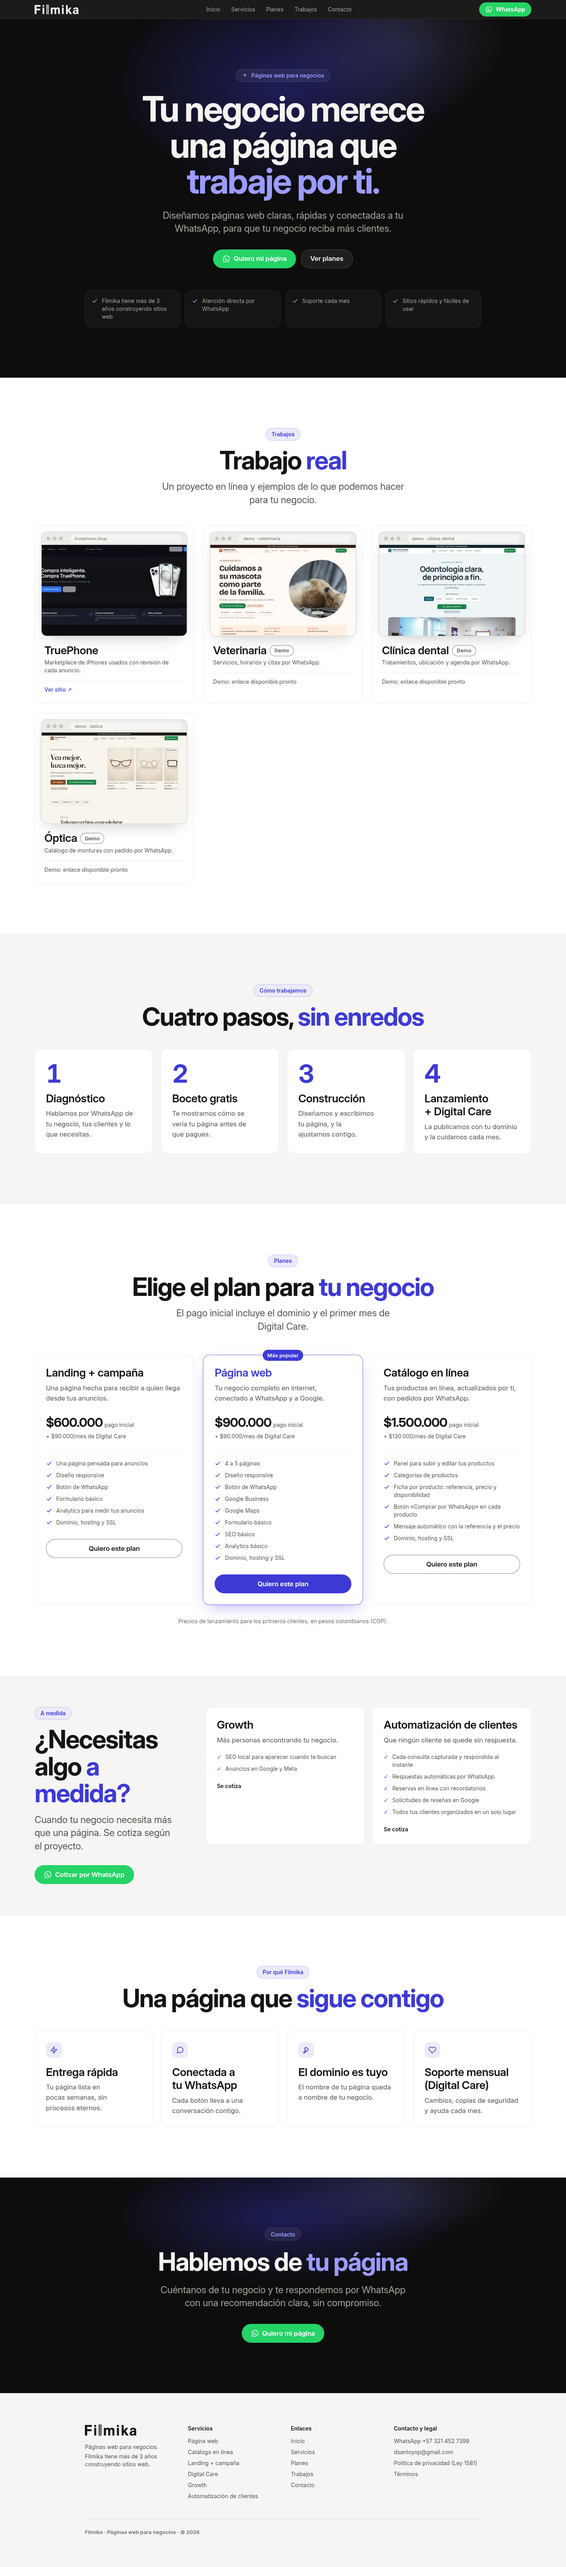
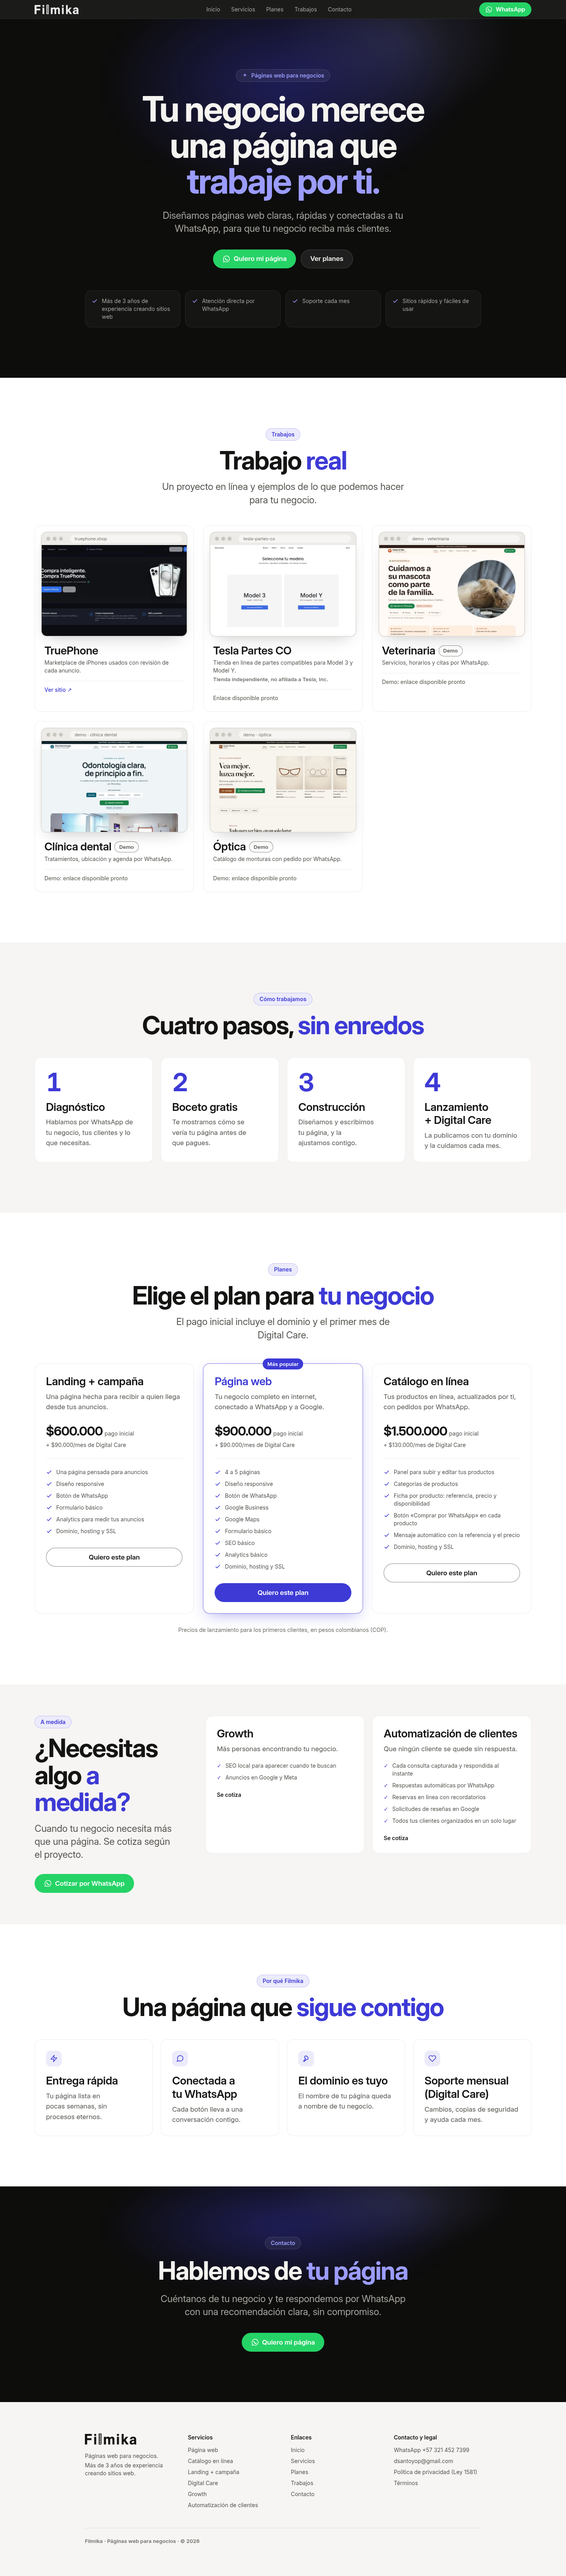
Trabajos: add Tesla Partes CO (local-build screenshot, no link, non-affiliation line); experience line → 'Más de 3 años de experiencia creando sitios web'

diff --git a/src/config.ts b/src/config.ts
@@ -13,12 +13,12 @@ export const SITE = {
   locale: "es_CO",
   lang: "es-CO",
   defaultDescription:
-    "Diseñamos páginas web claras, rápidas y conectadas a tu WhatsApp, para que tu negocio reciba más clientes. Filmika tiene más de 3 años construyendo sitios web.",
+    "Diseñamos páginas web claras, rápidas y conectadas a tu WhatsApp, para que tu negocio reciba más clientes. Más de 3 años de experiencia creando sitios web.",
   /**
    * The only number allowed in the copy (docs/BRAND.md), credited to the brand.
    * No personal names anywhere on the site (owner's decision, 2026-10-08).
    */
-  experience: "Filmika tiene más de 3 años construyendo sitios web, como TruePhone y Tesla Partes.",
+  experience: "Más de 3 años de experiencia creando sitios web, como TruePhone y Tesla Partes.",
 } as const;
 
 export const CONTACT = {

diff --git a/docs/SITE-SPEC.md b/docs/SITE-SPEC.md
@@ -29,7 +29,7 @@ A floating WhatsApp button appears on every page.
 ### Inicio (home v2, 2026-10-14)
 Structure taken from softingmarketingia.com (structure only, none of its copy). Design and motion: figma bro's `filmika-home-v2-spec-2026-10-14.md` + `filmika-home-v2-tokens-2026-10-14.css` (loaded after the Oct 8 base tokens, appended to `src/styles/global.css`). Light page with two dark bands (hero, final CTA).
 1. **Sticky header:** film-strip logo (white on the dark hero, black on light), menu Inicio · Servicios · Planes · Trabajos · Contacto (anchors on the home), always-visible WhatsApp button. Floating WhatsApp bubble with the tooltip "¡Escríbenos!" (≥640px), ring pulse every 6s, off under reduced motion, hidden while an inline WhatsApp CTA is visible.
-2. **Hero (dark band, static indigo glow):** pill badge "Páginas web para negocios" → H1 "Tu negocio merece una página que **trabaje por ti.**" (last words in the accent) → sub "Diseñamos páginas web claras, rápidas y conectadas a tu WhatsApp, para que tu negocio reciba más clientes." → buttons "Quiero mi página" (WhatsApp) and "Ver planes" (#planes). Then a non-numeric trust row: "Filmika tiene más de 3 años construyendo sitios web" (approved 2026-10-08), "Atención directa por WhatsApp", "Soporte cada mes", "Sitios rápidos y fáciles de usar".
+2. **Hero (dark band, static indigo glow):** pill badge "Páginas web para negocios" → H1 "Tu negocio merece una página que **trabaje por ti.**" (last words in the accent) → sub "Diseñamos páginas web claras, rápidas y conectadas a tu WhatsApp, para que tu negocio reciba más clientes." → buttons "Quiero mi página" (WhatsApp) and "Ver planes" (#planes). Then a non-numeric trust row: "Más de 3 años de experiencia creando sitios web" (approved 2026-10-08), "Atención directa por WhatsApp", "Soporte cada mes", "Sitios rápidos y fáciles de usar".
 3. **Trabajos (#trabajos):** 3-column grid of browser-frame cards with "Ver sitio": TruePhone (https://www.truephone.shop/). Tesla Partes is omitted until its live URL is confirmed. Three demos tagged "Demo" (veterinaria, clínica dental, óptica) use screenshots from the template previews; they are not online, so they show no link until `DEMO_URLS` in `src/config.ts` is filled. Demos are never deployed without the owner's OK.
 4. **Cómo trabajamos (#proceso):** Diagnóstico → Boceto gratis → Construcción → Lanzamiento + Digital Care.
 5. **Planes (#planes):** Landing + campaña $600.000 + $90.000/mes · **Página web** $900.000 + $90.000/mes ("Más popular", featured) · Catálogo en línea $1.500.000 + $130.000/mes. Note: "El pago inicial incluye el dominio y el primer mes de Digital Care." Each button opens wa.me/573214527399 with "Hola, me interesa el plan <nombre>".
@@ -124,14 +124,14 @@ Full copy direction lives in [BRAND.md](BRAND.md#copy-direction-mr-market-2026-1
 **Close**
 > Hablemos. Cuéntanos de tu negocio y te respondemos por WhatsApp con una recomendación clara, sin compromiso.
 
-Rules: "tú", short sentences, no jargon, the only claim is "Filmika tiene más de 3 años construyendo sitios web", and no personal names (see BRAND.md). Motion and imagery references: [REFERENCES.md](REFERENCES.md).
+Rules: "tú", short sentences, no jargon, the only claim is "Más de 3 años de experiencia creando sitios web", and no personal names (see BRAND.md). Motion and imagery references: [REFERENCES.md](REFERENCES.md).
 
 ## 5. Trust elements
 - **Portfolio:** only real, live projects with working links.
 - **Process:** clear 4-step process so the client knows what happens next.
 - **Packages and plans:** clear options and ongoing care after launch.
 - **Real contact:** real WhatsApp number, email, and city; no generic forms only.
-- **Experience:** "Filmika tiene más de 3 años construyendo sitios web" shown in Inicio and Nosotros.
+- **Experience:** "Más de 3 años de experiencia creando sitios web" shown in Inicio and Nosotros.
 - No fake testimonials, logos, or metrics.
 
 ## 6. Primary CTA: WhatsApp

diff --git a/docs/BRAND.md b/docs/BRAND.md
@@ -19,14 +19,14 @@ Filmika builds websites that help **any business** get more customers: clear, fa
 Niches are for **outreach only** (prospect mockups, Mr market's lists). Current outreach niches (Mr market, approved 2026-10-09): clínicas dentales, inmobiliarias, veterinarias, servicios para el hogar, estética, talleres especializados, ópticas y oficinas contables/jurídicas. **Constructoras are paused.** The site itself speaks to any business; Capacidades demos stay as fictional examples, framed as "ejemplos para distintos tipos de negocio", using a varied mix (clínica dental, inmobiliaria, veterinaria, tienda/óptica) rather than only cars or construction.
 
 Rules:
-- "más de 3 años" is the only claim we use, and it is credited to the brand: "Filmika tiene más de 3 años construyendo sitios web."
+- "más de 3 años" is the only claim we use, and it is credited to the brand: "Más de 3 años de experiencia creando sitios web."
 - **No personal names anywhere on the site or in the repo** (owner's decision, 2026-10-08). The brand speaks as Filmika. TruePhone and Tesla Partes can be named as portfolio projects.
 - No invented clients, metrics, or prices.
 - Practical facts that answer a client question are fine when they are true (for example the FAQ answer "unos 7 días" for delivery time, from Mr market's copy direction).
 
 Approved phrasing:
-> Filmika tiene más de 3 años construyendo sitios web.
-> Filmika tiene más de 3 años construyendo sitios web, como TruePhone y Tesla Partes.
+> Más de 3 años de experiencia creando sitios web.
+> Más de 3 años de experiencia creando sitios web, como TruePhone y Tesla Partes.
 
 ## Tone of voice
 - **Tú, consistently** (copy direction from Mr market, 2026-10-08; replaces the earlier "usted"). Close, direct, respectful.
@@ -36,7 +36,7 @@ Approved phrasing:
 - Honest: only claims we can back up.
 
 ## Copy direction (Mr market, 2026-10-08, with the owner's overrides)
-Overrides: no personal name anywhere, the brand speaks as Filmika, and the only claim is "Filmika tiene más de 3 años construyendo sitios web".
+Overrides: no personal name anywhere, the brand speaks as Filmika, and the only claim is "Más de 3 años de experiencia creando sitios web".
 
 **Hero (Inicio)**
 > Tu negocio merece una página que trabaje por ti.

diff --git a/docs/REFERENCES.md b/docs/REFERENCES.md
@@ -76,7 +76,7 @@ Filmika keeps figma bro's Apple-inspired tokens (accent `#3d3ad6`, warm neutrals
 
 ### What we deliberately did not adopt
 
-- Client logo strips and any count of clients or years beyond "Filmika tiene más de 3 años construyendo sitios web".
+- Client logo strips and any count of clients or years beyond "Más de 3 años de experiencia creando sitios web".
 - Outcome metrics. We have no verified numbers, so none appear.
 - Their English voice and sentence structures.
 - 3D objects, gradient artwork, lifestyle photography, muted video and WebGL canvases.
